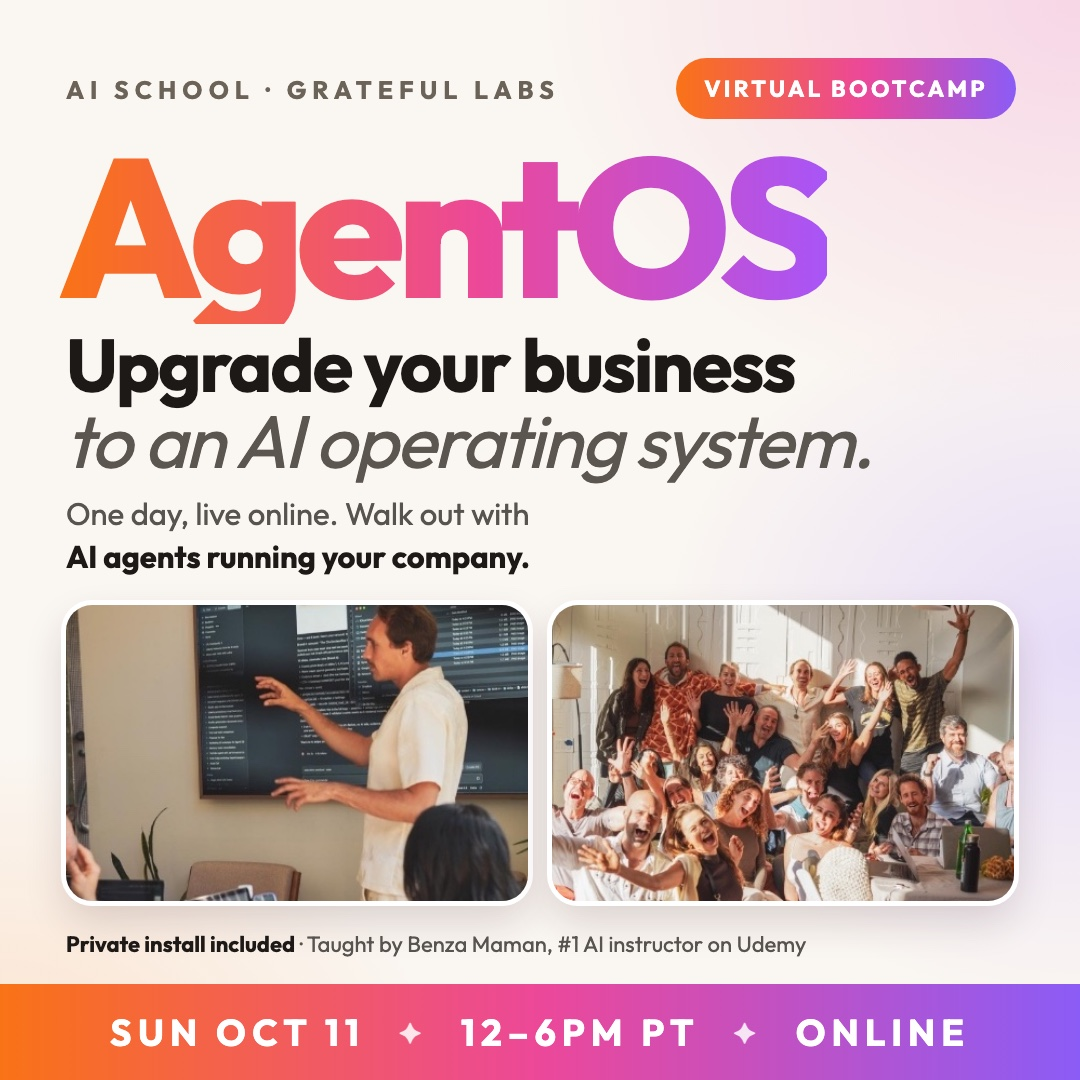
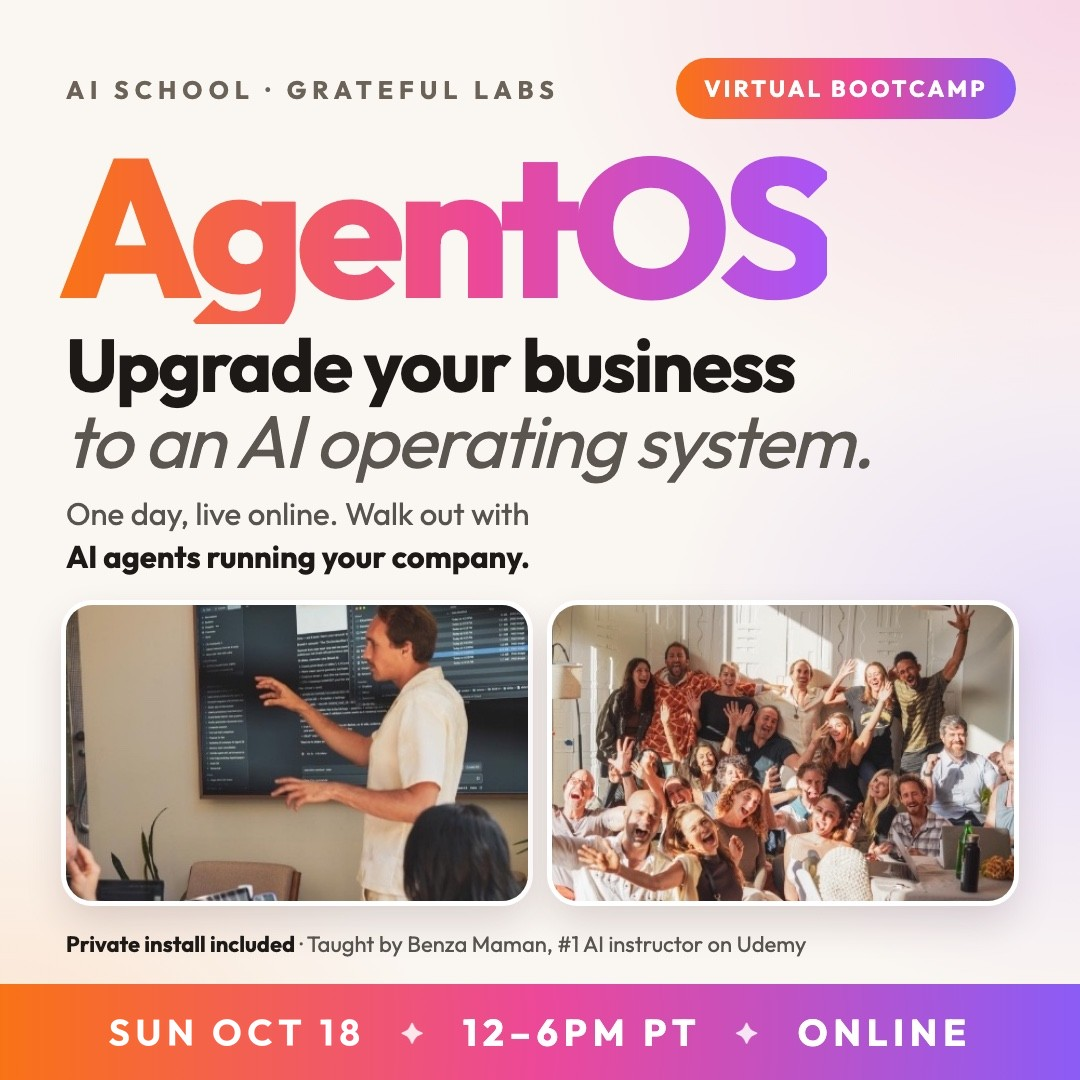
Virtual bootcamp moves to Oct 18; Healthspan offer ends Monday Oct 5

diff --git a/healthspan/index.html b/healthspan/index.html
@@ -1,0 +1,54 @@
+<!doctype html>
+<html lang="en">
+<head>
+<meta charset="utf-8">
+<meta name="viewport" content="width=device-width, initial-scale=1">
+<title>AI Bootcamp offer for the Healthspan community · The Oasis</title>
+
+<meta property="og:type" content="website">
+<meta property="og:site_name" content="The Oasis">
+<meta property="og:title" content="AI Bootcamp offer for the Healthspan community">
+<meta property="og:description" content="Virtual Oct 18 $800 or in person Oct 24-25 $1,600. Ends Monday, Oct 5 · $100 holds your rate.">
+<meta property="og:url" content="https://grateful.gg/healthspan/">
+<meta property="og:image" content="https://grateful.gg/healthspan/cover.jpg?v=oct5">
+<meta property="og:image:secure_url" content="https://grateful.gg/healthspan/cover.jpg?v=oct5">
+<meta property="og:image:type" content="image/jpeg">
+<meta property="og:image:width" content="1200">
+<meta property="og:image:height" content="630">
+<meta property="og:image:alt" content="AI Bootcamp offer for the Healthspan community">
+<meta name="twitter:card" content="summary_large_image">
+<meta name="twitter:title" content="AI Bootcamp offer for the Healthspan community">
+<meta name="twitter:description" content="Virtual Oct 18 $800 or in person Oct 24-25 $1,600. Ends Monday, Oct 5 · $100 holds your rate.">
+<meta name="twitter:image" content="https://grateful.gg/healthspan/cover.jpg?v=oct5">
+
+<!-- Humans go to the real page; crawlers read the tags above first. The card
+     below only shows if the redirect is blocked (in-app browsers, JS off). -->
+<!-- Keep the query string (utm_*, fbclid) and hash so ad and campaign links
+     still attribute; the no-JS refresh can't carry them. -->
+<script>location.replace("https://app.grateful.gg/healthspan" + location.search + location.hash);</script>
+<noscript><meta http-equiv="refresh" content="0; url=https://app.grateful.gg/healthspan"></noscript>
+<style>html{visibility:hidden}</style>
+<noscript><style>html{visibility:visible}</style></noscript>
+<script>setTimeout(function(){document.documentElement.style.visibility='visible';},1200);</script>
+<link rel="canonical" href="https://app.grateful.gg/healthspan">
+<style>
+  body{margin:0;font-family:Georgia,'Libre Bodoni',serif;color:#26211b;
+    background:linear-gradient(180deg,#fff7ed 0%,#fef2f8 45%,#eef2ff 100%);
+    min-height:100vh;display:flex;align-items:center;justify-content:center;padding:24px}
+  .card{max-width:560px;width:100%;background:#fff;border:1px solid #ece7f1;border-radius:22px;
+    overflow:hidden;box-shadow:0 8px 30px rgba(38,33,27,.08)}
+  .card img{width:100%;height:auto;display:block}
+  .b{padding:22px 26px 26px} h1{font-size:26px;margin:0 0 8px}
+  p{color:#7c7773;font-size:15px;line-height:1.6;margin:0 0 18px}
+  a.btn{display:inline-block;text-decoration:none;color:#fff;font-weight:700;padding:12px 22px;
+    border-radius:999px;background:linear-gradient(135deg,#f97316,#ec4899 45%,#8b5cf6)}
+</style>
+</head>
+<body>
+  <main class="card">
+    <img src="https://grateful.gg/healthspan/cover.jpg?v=oct5" alt="AI Bootcamp offer for the Healthspan community" width="1200" height="630">
+    <div class="b"><h1>AI Bootcamp offer for the Healthspan community</h1><p>Virtual Oct 18 $800 or in person Oct 24-25 $1,600. Ends Monday, Oct 5 · $100 holds your rate.</p>
+    <a class="btn" href="https://app.grateful.gg/healthspan">Open the event &rarr;</a></div>
+  </main>
+</body>
+</html>

diff --git a/ai/remotebootcamp1/index.html b/ai/remotebootcamp1/index.html
@@ -3,20 +3,20 @@
 <head>
 <meta charset="utf-8">
 <meta name="viewport" content="width=device-width, initial-scale=1">
-<title>Virtual AI Bootcamp · October 11 · Online</title>
+<title>Virtual AI Bootcamp · October 18 · Online</title>
 <meta property="og:type" content="website">
 <meta property="og:site_name" content="The Oasis">
-<meta property="og:title" content="Virtual AI Bootcamp · October 11 · Online">
+<meta property="og:title" content="Virtual AI Bootcamp · October 18 · Online">
 <meta property="og:url" content="https://grateful.gg/ai/remotebootcamp1/">
-<meta property="og:image" content="https://grateful.gg/ai/remotebootcamp1/cover.jpg">
-<meta property="og:image:secure_url" content="https://grateful.gg/ai/remotebootcamp1/cover.jpg">
+<meta property="og:image" content="https://grateful.gg/ai/remotebootcamp1/cover.jpg?v=oct18">
+<meta property="og:image:secure_url" content="https://grateful.gg/ai/remotebootcamp1/cover.jpg?v=oct18">
 <meta property="og:image:type" content="image/jpeg">
 <meta property="og:image:width" content="1080">
 <meta property="og:image:height" content="1080">
-<meta property="og:image:alt" content="AgentOS: Upgrade your business to an AI operating system. Virtual AI Bootcamp, Sunday October 11, 12-6pm PT, online.">
+<meta property="og:image:alt" content="AgentOS: Upgrade your business to an AI operating system. Virtual AI Bootcamp, Sunday October 18, 12-6pm PT, online.">
 <meta name="twitter:card" content="summary_large_image">
-<meta name="twitter:title" content="Virtual AI Bootcamp · October 11 · Online">
-<meta name="twitter:image" content="https://grateful.gg/ai/remotebootcamp1/cover.jpg">
+<meta name="twitter:title" content="Virtual AI Bootcamp · October 18 · Online">
+<meta name="twitter:image" content="https://grateful.gg/ai/remotebootcamp1/cover.jpg?v=oct18">
 <meta http-equiv="refresh" content="0; url=https://app.grateful.gg/ai/remotebootcamp1">
 <script>location.replace("https://app.grateful.gg/ai/remotebootcamp1" + location.search);</script>
 <link rel="canonical" href="https://app.grateful.gg/ai/remotebootcamp1">
